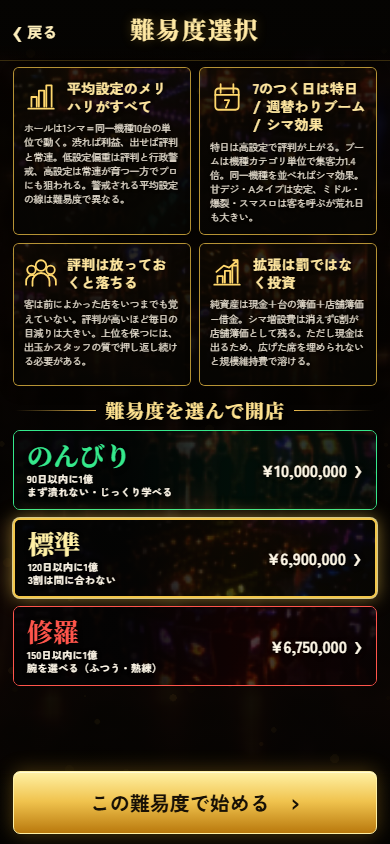
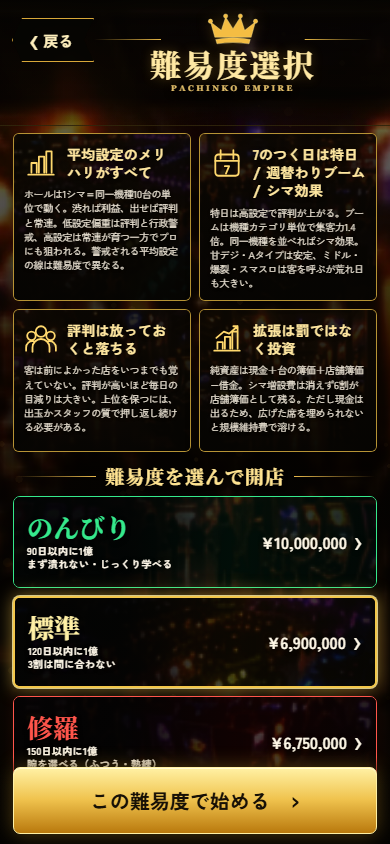
refine(pachinko): match ornate difficulty model

diff --git a/pachinko/launch-v2.css b/pachinko/launch-v2.css
@@ -31,13 +31,18 @@ body.launch-open{overflow:hidden}
 .launch-footer strong{font:600 9px/1.3 Georgia,serif;letter-spacing:.30em}
 .launch-footer small{display:block;margin-top:3px;font:500 5.8px/1 Georgia,serif;letter-spacing:.22em}
 .launch-version{position:absolute;z-index:4;right:18px;bottom:calc(var(--sab) + 13px);font-size:8px;color:#d9c69a;opacity:.68}
-.launch-difficulty{background:linear-gradient(rgba(4,3,2,.72),rgba(3,2,1,.92)),url("./art/launch-v2/difficulty-bg.webp") center/cover no-repeat}
+.launch-difficulty{background:linear-gradient(180deg,rgba(2,2,1,.44),rgba(3,2,1,.83) 44%,rgba(3,2,1,.94)),url("./art/launch-v2/title-hall.webp") center 42%/cover no-repeat}
 .launch-difficulty:after{content:"";position:absolute;inset:0;background:url("./art/launch-v2/particles-01.png") center/cover;opacity:.07;pointer-events:none}
-.launch-diff-head{position:absolute;z-index:6;top:0;left:0;right:0;height:calc(var(--sat) + 61px);padding-top:var(--sat);display:flex;align-items:center;justify-content:center;background:linear-gradient(180deg,rgba(5,4,2,.98),rgba(5,4,2,.90) 76%,rgba(5,4,2,0));border-bottom:1px solid rgba(224,174,56,.24)}
-.launch-back{position:absolute;left:12px;bottom:6px;height:46px;min-width:72px;display:flex;align-items:center;gap:4px;border:0;background:transparent;color:#fff0bd;font:700 15px PachiUI}
-.launch-back:before{content:"‹";font:300 34px/1 Arial}
-.launch-diff-head h2{margin:0 0 2px;font:800 24px/1 PachiMincho,serif;letter-spacing:.08em;color:#ffe9a4;text-shadow:0 0 12px rgba(255,195,55,.30)}
-.launch-diff-scroll{position:absolute;z-index:3;inset:0;overflow-y:auto;overscroll-behavior:contain;padding:calc(var(--sat) + 67px) 13px calc(var(--sab) + 94px);scrollbar-width:none}
+.launch-diff-head{position:absolute;z-index:6;top:0;left:0;right:0;height:calc(var(--sat) + 126px);padding-top:var(--sat);background:linear-gradient(180deg,rgba(5,4,2,.90),rgba(5,4,2,.63) 78%,rgba(5,4,2,0));border-bottom:1px solid rgba(224,174,56,.18)}
+.launch-back{position:absolute;left:12px;top:calc(var(--sat) + 18px);height:44px;min-width:82px;padding:0 14px 0 10px;display:flex;align-items:center;justify-content:center;gap:4px;border:1px solid #d8a739;background:rgba(7,6,3,.76);color:#fff0bd;font:700 15px PachiUI;clip-path:polygon(10px 0,100% 0,calc(100% - 10px) 50%,100% 100%,10px 100%,0 50%);box-shadow:0 0 12px rgba(255,190,55,.15)}
+.launch-back:before{content:"‹";font:300 32px/1 Arial}
+.launch-diff-brand{position:absolute;left:94px;right:18px;top:calc(var(--sat) + 8px);text-align:center;color:#f4d77c;text-shadow:0 2px 7px #000}
+.launch-diff-crown{display:block;width:52px;height:43px;margin:0 auto -3px;fill:#f4bd43;stroke:#fff0a5;stroke-width:.8;filter:drop-shadow(0 0 7px rgba(255,192,47,.25))}
+.launch-diff-brand:before,.launch-diff-brand:after{content:"";position:absolute;top:31px;width:24%;height:1px;background:linear-gradient(90deg,transparent,#e6b746)}
+.launch-diff-brand:before{left:0}.launch-diff-brand:after{right:0;transform:scaleX(-1)}
+.launch-diff-head h2{margin:0;font:800 31px/1 PachiMincho,serif;letter-spacing:.07em;color:#ffe9a4;text-shadow:0 0 12px rgba(255,195,55,.30)}
+.launch-diff-brand>div{margin-top:6px;font:600 8px/1 Georgia,serif;letter-spacing:.32em;color:#e7c26b}
+.launch-diff-scroll{position:absolute;z-index:3;inset:0;overflow-y:auto;overscroll-behavior:contain;padding:calc(var(--sat) + 133px) 13px calc(var(--sab) + 98px);scrollbar-width:none}
 .launch-diff-scroll::-webkit-scrollbar{display:none}
 .launch-rule-grid{display:grid;grid-template-columns:1fr 1fr;gap:8px}
 .launch-rule{position:relative;overflow:hidden;min-height:143px;border:1px solid rgba(237,190,68,.76);border-radius:6px;background:#0b0906;box-shadow:inset 0 0 0 1px rgba(255,238,168,.035),0 5px 14px rgba(0,0,0,.30);isolation:isolate}
@@ -56,7 +61,7 @@ body.launch-open{overflow:hidden}
 .launch-diff-label:before,.launch-diff-label:after{content:"";height:1px;flex:1;background:linear-gradient(90deg,transparent,#e9ba4d)}
 .launch-diff-label:after{background:linear-gradient(90deg,#e9ba4d,transparent)}
 .launch-diff-options{display:grid;gap:8px}
-.launch-diff-card{position:relative;overflow:hidden;min-height:80px;border:1px solid var(--card);border-radius:7px;background:#070706;display:grid;grid-template-columns:minmax(0,1fr) auto;align-items:center;padding:9px 13px;text-align:left;color:#fff;isolation:isolate}
+.launch-diff-card{position:relative;overflow:hidden;min-height:92px;border:1px solid var(--card);border-radius:7px;background:#070706;display:grid;grid-template-columns:minmax(0,1fr) auto;align-items:center;padding:9px 13px;text-align:left;color:#fff;isolation:isolate}
 .launch-diff-card:before{content:"";position:absolute;inset:0;z-index:-2;background-position:center;background-size:cover;opacity:.72}
 .launch-diff-card:after{content:"";position:absolute;inset:0;z-index:-1;background:linear-gradient(90deg,rgba(2,3,3,.93) 0 31%,rgba(2,3,3,.45) 61%,rgba(2,3,3,.76))}
 .launch-diff-card.easy{--card:#35e98c}.launch-diff-card.easy:before{background-image:url("./art/launch-v2/difficulty-easy.webp")}
@@ -70,7 +75,7 @@ body.launch-open{overflow:hidden}
 .launch-price{display:flex;align-items:center;gap:7px;font:700 16px/1 PachiUI,sans-serif;color:#fff8e7;text-shadow:0 1px 5px #000;white-space:nowrap}
 .launch-price:after{content:"›";font:300 28px/1 Arial}
 .launch-diff-cta-wrap{position:absolute;z-index:7;left:0;right:0;bottom:0;padding:10px 13px calc(var(--sab) + 10px);background:linear-gradient(180deg,rgba(4,3,2,0),rgba(4,3,2,.97) 32%)}
-.launch-cta{width:100%;min-height:63px;border:1px solid #fff0a5;border-radius:7px;background:linear-gradient(180deg,#fff1a4,#f0c34e 48%,#b9790d);color:#171006;font:800 20px/1 PachiUI;box-shadow:inset 0 1px #fffbd5,0 0 20px rgba(255,190,45,.30)}
+.launch-cta{width:100%;min-height:67px;border:1px solid #fff0a5;border-radius:7px;background:linear-gradient(180deg,#fff1a4,#f0c34e 48%,#b9790d);color:#171006;font:800 20px/1 PachiUI;box-shadow:inset 0 1px #fffbd5,0 0 20px rgba(255,190,45,.30)}
 .launch-drawer[hidden]{display:none!important}
 .launch-drawer{position:absolute;z-index:20;inset:0;display:flex;align-items:flex-end}
 .launch-drawer-bg{position:absolute;inset:0;border:0;background:rgba(0,0,0,.76);backdrop-filter:blur(5px)}

diff --git a/pachinko/index.html b/pachinko/index.html
@@ -1182,7 +1182,7 @@ svg{flex:0 0 auto}
       <div class="launch-footer"><span class="launch-footer-crown">♛</span><strong>PACHINKO EMPIRE</strong><small>MANAGEMENT SIMULATION</small></div><div class="launch-version">Ver.1.0.0</div>
     </section>
     <section id="launchDifficulty" class="launch-screen launch-difficulty" aria-label="難易度選択">
-      <header class="launch-diff-head"><button class="launch-back" type="button" data-launch="back-title">戻る</button><h2>難易度選択</h2></header>
+      <header class="launch-diff-head"><button class="launch-back" type="button" data-launch="back-title">戻る</button><div class="launch-diff-brand"><svg class="launch-diff-crown" viewBox="0 0 120 82" aria-hidden="true"><path d="M18 59 8 23l25 20 10-31 17 27 17-27 10 31 25-20-10 36Z"/><path d="M20 64q40-8 80 0l-3 10q-37-6-74 0Z"/><circle cx="8" cy="22" r="5"/><circle cx="43" cy="10" r="5"/><circle cx="77" cy="10" r="5"/><circle cx="112" cy="22" r="5"/></svg><h2>難易度選択</h2><div>PACHINKO EMPIRE</div></div></header>
       <div class="launch-diff-scroll">
         <div class="launch-rule-grid">
           <article class="launch-rule r1"><div class="launch-rule-inner"><span class="launch-rule-icon"><svg viewBox="0 0 32 32"><path d="M4 27h24M7 25V16h5v9M14 25V10h5v15M21 25V5h5v20"/></svg></span><h3>平均設定のメリハリがすべて</h3><p>ホールは1シマ＝同一機種10台の単位で動く。渋れば利益、出せば評判と常連。低設定偏重は評判と行政警戒、高設定は常連が育つ一方でプロにも狙われる。警戒される平均設定の線は難易度で異なる。</p></div></article>
